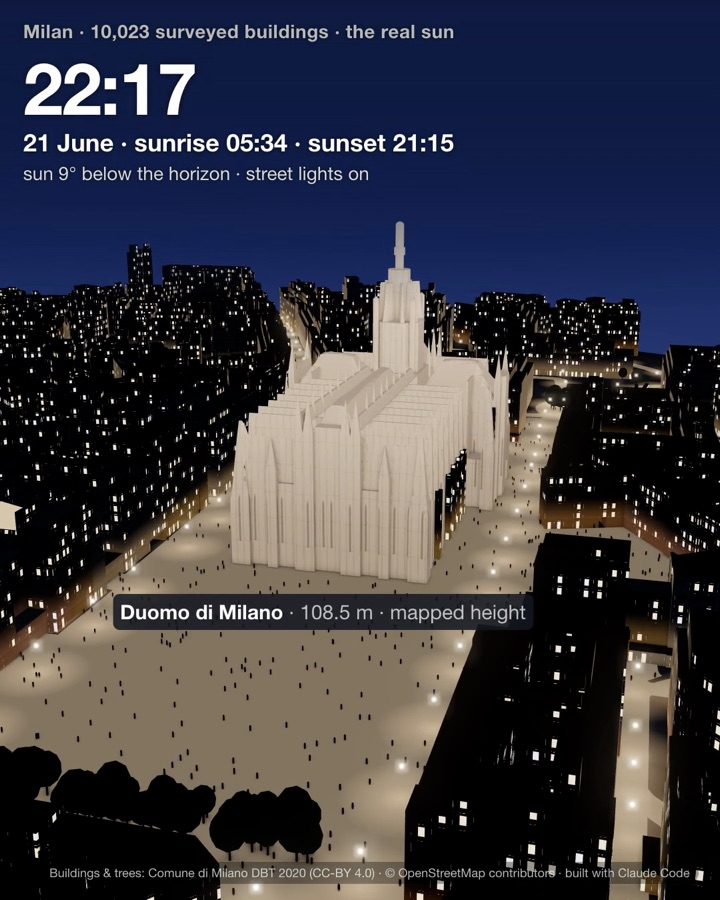
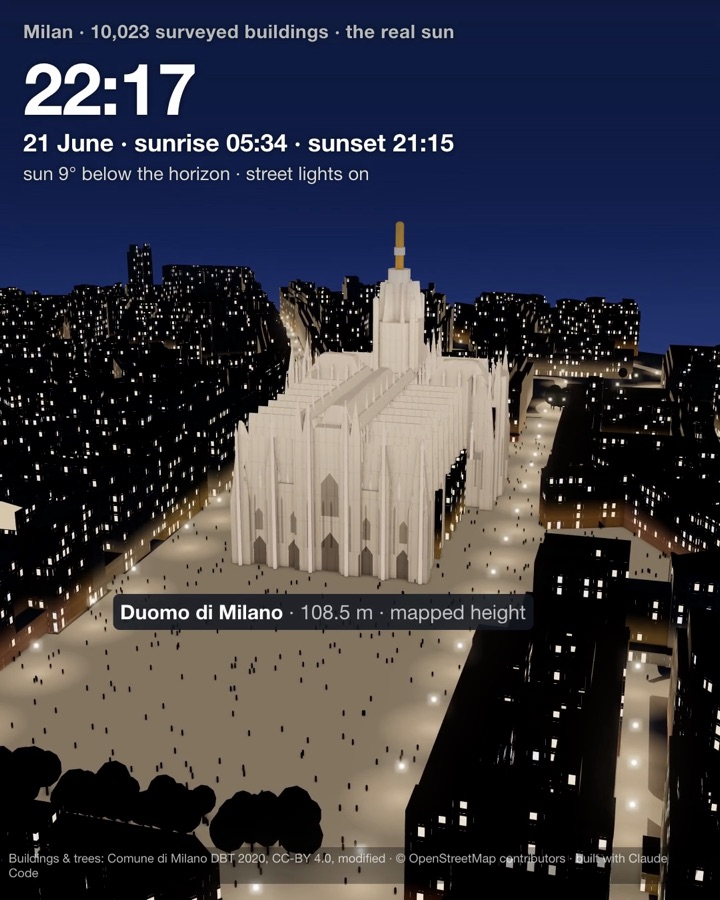
Duomo detail (pinnacles, west front, gilded Madonnina) and a tram chase shot; 26 s flyover

diff --git a/index.html b/index.html
@@ -160,7 +160,7 @@ const ring = (f) => { const p = []; for (let i = 0; i < f.length; i += 2) p.push
 const W = (x, h, y) => new THREE.Vector3(x, h, -y); // data (x east, y north) -> three (y up, -z north)
 const inPoly = (x, y, poly) => { let c = false; for (let i = 0, j = poly.length - 1; i < poly.length; j = i++) { const a = poly[i], b = poly[j];
   if ((a.y > y) !== (b.y > y) && x < (b.x - a.x) * (y - a.y) / (b.y - a.y) + a.x) c = !c; } return c; };
-const U = { uNight: { value: 0 }, uLit: { value: 0 }, uSkyTint: { value: new THREE.Color(0x9fb8d8) } }; // shared shader uniforms
+const U = { uNight: { value: 0 }, uLit: { value: 0 }, uSkyTint: { value: new THREE.Color(0x9fb8d8) }, uFacade: { value: new THREE.Vector2() } }; // shared shader uniforms
 
 // roofs: pyramid fan, dome rings, and a distance-to-edge "skeleton" roof for gabled/hipped shapes
 function roofGeometry(outer, holes, shape, base, rh) {
@@ -194,8 +194,8 @@ const FACADES = [[0xdcae6e, 3], [0xe8c681, 3], [0xd18c62, 2], [0xe2b396, 2], [0x
 const FW = FACADES.reduce((s, [, w]) => s + w, 0);
 const pickFacade = (u) => { for (const [c, w] of FACADES) { if ((u -= w / FW) < 0) return c; } return FACADES[0][0]; };
 const ROOFS = [0xa65e40, 0xb26b4b, 0x98553a, 0xa96a52, 0x96918a, 0xa7a097];
-function look(name, g) { // -> [kind, façade, roof]; kind 0 ordinary (windows), 1 Duomo marble, 2 Galleria (glass roof), 3 plain stone/brick (no windows)
-  if (name === 'Duomo di Milano') return [1, 0xf3e8e2, 0xf0e4de];
+function look(name, g, h) { // -> [kind, façade, roof]; kind 0 ordinary (windows), 1 Duomo marble, 2 Galleria (glass roof), 3 plain stone/brick (no windows)
+  if (name === 'Duomo di Milano') return h >= 105 ? [1, 0xd9a441, 0xd9a441] : [1, 0xf3e8e2, 0xf0e4de]; // the gilded Madonnina on top
   if (name.startsWith('Galleria Vittorio Emanuele')) return [2, 0xead3ae, 0x8ea6b4];
   if (name === 'Castello Sforzesco') return [3, 0xb8653f, 0x9c5236];
   if (/^(Chiesa|Basilica)/.test(name)) return [3, 0xdccfba, 0xa65e40];
@@ -203,7 +203,7 @@ function look(name, g) { // -> [kind, façade, roof]; kind 0 ordinary (windows),
   return [0, pickFacade(hash(g * 7 + 1)), ROOFS[Math.floor(hash(g * 13 + 5) * ROOFS.length)]];
 }
 
-const parts = [], starts = [], info = [];
+const parts = [], starts = [], info = [], DUOMO_PARTS = [];
 let vcount = 0;
 data.b.forEach((b, bi) => {
   const [h, mh, ni, src, outerF, holesF = [], shape = 0, rhTag = -1] = b;
@@ -222,7 +222,8 @@ data.b.forEach((b, bi) => {
   starts.push(vcount); vcount += merged.attributes.position.count;
   const grp = data.grp?.[bi] ?? -1, name = ni >= 0 ? data.names[ni] : '';
   info.push({ h, ni, src, c: outer.reduce((s, p) => s.add(p), new THREE.Vector2()).divideScalar(outer.length),
-    look: look(name, grp >= 0 ? grp : 200000 + (ni >= 0 ? ni : bi)), seed: hash((grp >= 0 ? grp : bi) * 3 + 11) });
+    look: look(name, grp >= 0 ? grp : 200000 + (ni >= 0 ? ni : bi), h), seed: hash((grp >= 0 ? grp : bi) * 3 + 11) });
+  if (name === 'Duomo di Milano') DUOMO_PARTS.push({ outer, top, shape, area });
   parts.push(merged);
 });
 const cityGeo = mergeGeometries(parts);
@@ -255,7 +256,7 @@ cityMat.onBeforeCompile = (s) => {
   s.vertexShader = s.vertexShader.replace('#include <common>', '#include <common>\nattribute vec3 aRoof; attribute vec2 aK; varying vec3 vWP; varying vec3 vWN; varying vec3 vRoof; varying vec2 vK;')
     .replace('#include <worldpos_vertex>', '#include <worldpos_vertex>\nvWP = (modelMatrix * vec4(transformed, 1.0)).xyz; vWN = normalize(mat3(modelMatrix) * objectNormal); vRoof = aRoof; vK = aK;');
   s.fragmentShader = s.fragmentShader.replace('#include <common>', `#include <common>
-uniform float uNight, uLit; uniform vec3 uSkyTint;
+uniform float uNight, uLit; uniform vec3 uSkyTint; uniform vec2 uFacade;
 varying vec3 vWP; varying vec3 vWN; varying vec3 vRoof; varying vec2 vK;
 float h21(vec2 p) { p = fract(p * vec2(123.34, 456.21)); p += dot(p, p + 45.32); return fract(p.x * p.y); }
 float band(float x, float a, float b) { float w = max(fwidth(x), 1e-4) * 0.8; return smoothstep(a - w, a + w, x) - smoothstep(b - w, b + w, x); }`)
@@ -288,6 +289,16 @@ vec3 gGlow = vec3(0.0);
   gGlow += warm * win * m * on * uNight * 1.15 + vec3(1.0, 0.72, 0.45) * windows * (1.0 - fade) * uLit * 0.3 * uNight;
   gGlow += vec3(1.0, 0.7, 0.4) * roof * isGal * uNight * 0.55;                      // the Galleria's glass roof glows
   c = mix(c, vec3(0.62, 0.7, 0.76), roof * isGal * 0.5);
+  { // the Duomo's west front: five pointed portals, a tall window over each, the great window over the middle one
+    float front = isDuomo * step(0.85, -vWN.x) * step(vWP.x, uFacade.y + 9.0);
+    float dz = vWP.z - uFacade.x, y = vWP.y;
+    float k = clamp(floor(dz / 12.4 + 0.5), -2.0, 2.0), u = abs(dz - k * 12.4), mid = 1.0 - step(0.5, abs(k));
+    float hw = mix(2.2, 3.0, mid), hb = mix(8.0, 10.5, mid);
+    float door = step(u, hw) * step(y, hb + 1.3 * hw * (1.0 - u / hw));
+    float whw = mix(1.3, 3.0, mid), wb = mix(13.0, 20.0, mid), wt = mix(19.0, 31.0, mid);
+    float glaze = step(u, whw) * step(wb, y) * step(y, wt + 1.3 * whw * (1.0 - u / whw));
+    c *= 1.0 - front * (0.68 * door + 0.5 * glaze);
+  }
   { // Duomo walls: buttress ribs every 2.4 m, string courses, lancet windows with pointed heads
     float du = dot(vWP.xz, t) / 2.4, dx = fract(du), y = vWP.y;
     float rib = band(dx, 0.0, 0.1) + band(dx, 0.9, 1.0);
@@ -370,14 +381,17 @@ const tramWin = new THREE.InstancedMesh(new THREE.BoxGeometry(12.9, 0.9, 2.42).t
   new THREE.MeshStandardMaterial({ color: 0x262a31, roughness: 0.25, emissive: 0xffd7a0, emissiveIntensity: 0 }), tramList.length);
 for (const m of [tramBody, tramWin]) { m.castShadow = true; m.receiveShadow = true; m.frustumCulled = false; scene.add(m); }
 const tmpM = new THREE.Matrix4(), tmpQ = new THREE.Quaternion(), UPV = new THREE.Vector3(0, 1, 0), ONE = new THREE.Vector3(1, 1, 1), ZERO = new THREE.Vector3();
+function tramPos(t, sec) { // where one tram is at video/clock second sec: data metres, heading, distance along its run
+  const { p, cum, L } = t.r, s = (t.s0 + 8.5 * sec) % L; // ~30 km/h
+  let k = 1; while (k < cum.length - 1 && cum[k] < s) k++;
+  const a = p[k - 1], b = p[k], f = (s - cum[k - 1]) / (cum[k] - cum[k - 1] || 1);
+  return { x: a.x + (b.x - a.x) * f, y: a.y + (b.y - a.y) * f, ang: Math.atan2(b.y - a.y, b.x - a.x), s, L };
+}
 function placeTrams(sec) {
   tramList.forEach((t, i) => {
-    const { p, cum, L } = t.r, s = (t.s0 + 8.5 * sec) % L; // ~30 km/h
-    let k = 1; while (k < cum.length - 1 && cum[k] < s) k++;
-    const a = p[k - 1], b = p[k], f = (s - cum[k - 1]) / (cum[k] - cum[k - 1] || 1);
-    const edge = Math.min(s, L - s) < 9; // hide while entering / leaving the disc
-    tmpQ.setFromAxisAngle(UPV, Math.atan2(b.y - a.y, b.x - a.x));
-    tmpM.compose(W(a.x + (b.x - a.x) * f, 0.36, a.y + (b.y - a.y) * f), tmpQ, edge ? ZERO : ONE);
+    const q = tramPos(t, sec), edge = Math.min(q.s, q.L - q.s) < 9; // hide while entering / leaving the disc
+    tmpQ.setFromAxisAngle(UPV, q.ang);
+    tmpM.compose(W(q.x, 0.36, q.y), tmpQ, edge ? ZERO : ONE);
     tramBody.setMatrixAt(i, tmpM); tramWin.setMatrixAt(i, tmpM);
   });
   tramBody.instanceMatrix.needsUpdate = tramWin.instanceMatrix.needsUpdate = true;
@@ -391,6 +405,33 @@ const DUOMO = (() => { const ids = info.map((b, i) => [b, i]).filter(([b]) => b.
   const west = Math.min(...ids.map(([, i]) => Math.min(...data.b[i][4].filter((_, k) => k % 2 === 0)))) / 10; // facade line
   return { x: c.x, y: c.y, west, id: ids[0]?.[1] ?? -1 }; })();
 AREAS.forEach((a, k) => { if (inPoly(DUOMO.west - 40, DUOMO.y, a)) piazza = k; });
+U.uFacade.value.set(-DUOMO.y, DUOMO.west);
+
+// the Duomo's forest of marble pinnacles: one on every buttress along the roof edges, and the piers of the west front
+const PINN = [];
+{
+  const pts = [];
+  const along = (poly, step, inset, base, H) => { // points every `step` m along a closed outline, pulled `inset` m inwards
+    const c = poly.reduce((s, p) => s.add(p), new THREE.Vector2()).divideScalar(poly.length);
+    for (let i = 0; i < poly.length; i++) { const a = poly[i], b = poly[(i + 1) % poly.length], L = a.distanceTo(b);
+      for (let t = step / 2; t < L; t += step) { const p = a.clone().lerp(b, t / L); p.add(c.clone().sub(p).setLength(inset)); pts.push([p.x, p.y, base, H]); } }
+  };
+  if (DUOMO_PARTS.length) {
+    const block = DUOMO_PARTS.reduce((a, b) => (b.area > a.area ? b : a));
+    along(block.outer, 6.2, 1.2, block.top, 11);
+    for (const p of DUOMO_PARTS) if (p.shape === 3 && p.area > 600) along(p.outer, 6.5, 1.0, p.top, 8.5);
+    [-31, -18.6, -6.2, 6.2, 18.6, 31].forEach((o, i) => pts.push([DUOMO.west - 0.4, DUOMO.y + o, 0, [46, 50, 56, 56, 50, 46][i]]));
+  }
+  const mat = new THREE.MeshStandardMaterial({ color: 0xefe3dd, roughness: 0.8, emissive: 0xf3d9bf, emissiveIntensity: 0 });
+  const shafts = new THREE.InstancedMesh(new THREE.CylinderGeometry(0.5, 0.65, 1, 8).translate(0, 0.5, 0), mat, Math.max(1, pts.length));
+  const tops = new THREE.InstancedMesh(mergeGeometries([new THREE.ConeGeometry(0.75, 3.2, 8).translate(0, 1.6, 0),
+    new THREE.CapsuleGeometry(0.22, 0.6, 2, 6).translate(0, 3.6, 0)]), mat, Math.max(1, pts.length)); // spire and its statue
+  pts.forEach(([x, y, base, H], i) => {
+    shafts.setMatrixAt(i, tmpM.compose(W(x, base, y), tmpQ.identity(), new THREE.Vector3(1, H, 1)));
+    tops.setMatrixAt(i, tmpM.makeTranslation(x, base + H, -y));
+  });
+  for (const m of [shafts, tops]) { m.castShadow = m.receiveShadow = true; scene.add(m); PINN.push(m); }
+}
 AREAS.forEach((a, k) => {
   const A = Math.abs(THREE.ShapeUtils.area(a)), n = Math.min(700, Math.round(A * (k === piazza ? 0.03 : 0.006)));
   const bx = a.map((p) => p.x), by = a.map((p) => p.y), [x0, x1, y0, y1] = [Math.min(...bx), Math.max(...bx), Math.min(...by), Math.max(...by)];
@@ -510,6 +551,7 @@ function setSun(min) {
   lampBulbs.visible = night > 0.01; lampPools.visible = night > 0.01 && !heatPlane.visible;
   lampBulbs.material.color.setRGB(4, 3.4, 2.6).multiplyScalar(night); lampPools.material.opacity = 0.24 * night;
   tramWin.material.emissiveIntensity = 1.6 * night;
+  if (PINN.length) PINN[0].material.emissiveIntensity = 0.5 * night; // floodlit with the Duomo
   for (const m of NIGHTLIT) { m.material.emissive.setRGB(1, 0.78, 0.52); m.material.emissiveIntensity = 0.14 * night; }
   bloom.strength = 0.1 + 0.45 * night; bloom.threshold = 1.2 + 1.5 * (1 - night);
   renderer.toneMappingExposure = 1 + 0.35 * night;
@@ -643,26 +685,55 @@ function place(o) { // o: {tx, ty, th, az (bearing camera from target), el (deg 
   controls.target.copy(t); camera.lookAt(t);
 }
 // play mode: one key every 2 s of video. m = wall-clock minutes (from sunrise r / sunset s); the rest is the camera
-const PLAY_S = 24, PLAY_DATE = Q.get('date') || '2026-06-21';
-const SHOTS = (r, s, n) => [
-  { m: r - 32, tx: DUOMO.x, ty: DUOMO.y, th: 45, az: 38, el: 20, d: 300 },   // blue hour, lamps still on, the Duomo floodlit
-  { m: r - 10, tx: DUOMO.x, ty: DUOMO.y, th: 40, az: 48, el: 24, d: 340 },
-  { m: r + 14, tx: DUOMO.x - 20, ty: DUOMO.y + 20, th: 30, az: 66, el: 29, d: 470 }, // first sun on the spires
-  { m: r + 75, tx: 220, ty: -60, th: 10, az: 96, el: 38, d: 760 },
-  { m: r + 200, tx: 90, ty: 20, th: 0, az: 140, el: 52, d: 980 },
-  { m: n, tx: 0, ty: 40, th: 0, az: 195, el: 60, d: 1120 },                   // noon passes quickly
-  { m: s - 210, tx: -140, ty: 120, th: 0, az: 245, el: 47, d: 940 },
-  { m: s - 100, tx: -330, ty: 240, th: 12, az: 283, el: 30, d: 660 },         // golden hour towards the Castello
-  { m: s - 38, tx: -40, ty: 40, th: 0, az: 292, el: 25, d: 760 },
-  { m: s + 2, tx: 290, ty: DUOMO.y, th: 30, az: 278, el: 20, d: 540 },        // sunset lights up the Duomo's west front
-  { m: s + 26, tx: DUOMO.x - 30, ty: DUOMO.y, th: 30, az: 266, el: 18, d: 430 },
-  { m: s + 50, tx: DUOMO.x - 30, ty: DUOMO.y, th: 32, az: 259, el: 17, d: 395 }, // night: lights on
-  { m: s + 62, tx: DUOMO.x - 30, ty: DUOMO.y, th: 32, az: 255, el: 16, d: 380 },
-];
+const PLAY_S = 26, PLAY_DATE = Q.get('date') || '2026-06-21';
+const HUB = { x: 30, y: -30 }; // the busiest tram crossing in the disc (most track points per 60 m cell)
+function runPoint(r, s) { // point at distance s along a tram run
+  let k = 1; while (k < r.cum.length - 1 && r.cum[k] < s) k++;
+  return r.p[k - 1].clone().lerp(r.p[k], (s - r.cum[k - 1]) / (r.cum[k] - r.cum[k - 1] || 1));
+}
+function tramShot(t0, t1) { // chase one tram from video second t0 to t1, camera right behind it along a straight street
+  let best = null;
+  for (const t of tramList) {
+    const a = tramPos(t, t0), b = tramPos(t, t1);
+    if (b.s < a.s || a.s < 110 || b.L - b.s < 40) continue; // no wrap; room behind for the camera; not at the disc edge
+    const p0 = runPoint(t.r, a.s - 100), p1 = runPoint(t.r, b.s + 15), dir = p1.clone().sub(p0).normalize();
+    let dev = 0; // how far the track strays from a straight line over the stretch the camera sees
+    for (let x = a.s - 100; x <= b.s + 15; x += 4) { const q = runPoint(t.r, x).sub(p0); dev = Math.max(dev, Math.abs(q.x * dir.y - q.y * dir.x)); }
+    if (dev > 2.5) continue;
+    const dist = Math.hypot((a.x + b.x) / 2 - HUB.x, (a.y + b.y) / 2 - HUB.y);
+    if (!best || dist < best.dist) best = { a, b, dist, ang: Math.atan2(dir.y, dir.x) };
+  }
+  if (!best) return [{ tx: HUB.x, ty: HUB.y, th: 0, az: 120, el: 40, d: 300 }, { tx: HUB.x, ty: HUB.y, th: 0, az: 125, el: 42, d: 320 }];
+  const az = 90 - best.ang / RAD + 180; // compass bearing from the tram back along the street
+  return [best.a, best.b].map((q) => ({ tx: q.x, ty: q.y, th: 3, az, el: 39, d: 70, hold: 1 }));
+}
+const SHOTS = (r, s, n) => {
+  const [ta, tb] = tramShot(6, 8);
+  const k = [
+    { m: r - 32, tx: DUOMO.x, ty: DUOMO.y, th: 45, az: 38, el: 20, d: 300 },   // blue hour, lamps still on, the Duomo floodlit
+    { m: r - 10, tx: DUOMO.x, ty: DUOMO.y, th: 40, az: 48, el: 24, d: 340 },
+    { m: r + 14, tx: DUOMO.x - 20, ty: DUOMO.y + 20, th: 30, az: 66, el: 29, d: 470 }, // first sun on the spires
+    { m: r + 55, ...ta },                                                        // follow a tram through the centre
+    { m: r + 95, ...tb },
+    { m: r + 220, tx: 90, ty: 20, th: 0, az: 140, el: 52, d: 980 },
+    { m: n, tx: 0, ty: 40, th: 0, az: 195, el: 60, d: 1120 },                   // noon passes quickly
+    { m: s - 210, tx: -140, ty: 120, th: 0, az: 245, el: 47, d: 940 },
+    { m: s - 100, tx: -330, ty: 240, th: 12, az: 283, el: 30, d: 660 },         // golden hour towards the Castello
+    { m: s - 38, tx: -40, ty: 40, th: 0, az: 292, el: 25, d: 760 },
+    { m: s + 2, tx: 290, ty: DUOMO.y, th: 30, az: 278, el: 20, d: 540 },        // sunset lights up the Duomo's west front
+    { m: s + 26, tx: DUOMO.x - 30, ty: DUOMO.y, th: 30, az: 266, el: 18, d: 430 },
+    { m: s + 50, tx: DUOMO.x - 30, ty: DUOMO.y, th: 32, az: 259, el: 17, d: 395 }, // night: lights on
+    { m: s + 62, tx: DUOMO.x - 30, ty: DUOMO.y, th: 32, az: 255, el: 16, d: 380 },
+  ];
+  for (let i = 1; i < k.length; i++) { while (k[i].az - k[i - 1].az > 180) k[i].az -= 360; while (k[i].az - k[i - 1].az < -180) k[i].az += 360; } // shortest turn
+  k.forEach((o) => { o.hold ??= 0; });
+  return k;
+};
 const cr = (p0, p1, p2, p3, t) => 0.5 * (2 * p1 + (p2 - p0) * t + (2 * p0 - 5 * p1 + 4 * p2 - p3) * t * t + (3 * p1 - p0 - 3 * p2 + p3) * t * t * t);
 function shotAt(keys, u) { // Catmull-Rom through keys, u in 0..1
   const n = keys.length - 1, x = Math.min(u, 0.99999) * n, i = Math.floor(x), t = x - i, o = {};
-  for (const k of Object.keys(keys[0])) o[k] = cr(keys[Math.max(i - 1, 0)][k], keys[i][k], keys[i + 1][k], keys[Math.min(i + 2, n)][k], t);
+  const A = keys[i], B = keys[i + 1], e = A.hold && B.hold ? t : t * t * (3 - 2 * t); // tram chase: straight line; next to it: eased, no overshoot
+  for (const k of Object.keys(keys[0])) o[k] = A.hold || B.hold ? A[k] + (B[k] - A[k]) * e : cr(keys[Math.max(i - 1, 0)][k], A[k], B[k], keys[Math.min(i + 2, n)][k], t);
   return o;
 }
 
@@ -679,7 +750,7 @@ else {
   const today = romeToday(); setDate(Q.get('date') || today, false);
   const p = romeParts(Date.now()), now = +p.hour * 60 + +p.minute;
   setSun(now > state.rise - 40 && now < state.set + 70 ? now : state.set - 55);
-  const s0 = SHOTS(state.rise, state.set, 720)[5]; place({ ...s0, ...(innerWidth / innerHeight < 0.9 ? { d: 1400, el: 50 } : {}) });
+  const s0 = SHOTS(state.rise, state.set, 720)[6]; place({ ...s0, ...(innerWidth / innerHeight < 0.9 ? { d: 1400, el: 50 } : {}) });
   if (Q.has('cam')) { const [tx, ty, th, az, el, d] = Q.get('cam').split(',').map(Number); place({ tx, ty, th, az, el, d }); }
   if (Q.has('m')) setSun(+Q.get('m'));
   if (Q.has('heat')) await showHeat(true);

diff --git a/README.md b/README.md
@@ -22,7 +22,7 @@ in Milan. The sun is the real one for any date and time, from the blue hour befo
 ## URL parameters
 | Parameter | Effect |
 |---|---|
-| `?play` | the 24 s day-to-night flyover on 21 June (`&date=YYYY-MM-DD` for another day) |
+| `?play` | the 26 s day-to-night flyover on 21 June (`&date=YYYY-MM-DD` for another day) |
 | `?clean` | hide the controls |
 | `&t=SEC` | freeze the flyover at that second |
 | `?cam=tx,ty,th,az,el,d&m=MIN&date=...` | a still: camera target in m (x east, y north from the centre), height, bearing and elevation in degrees, distance in m, and the clock in minutes |
